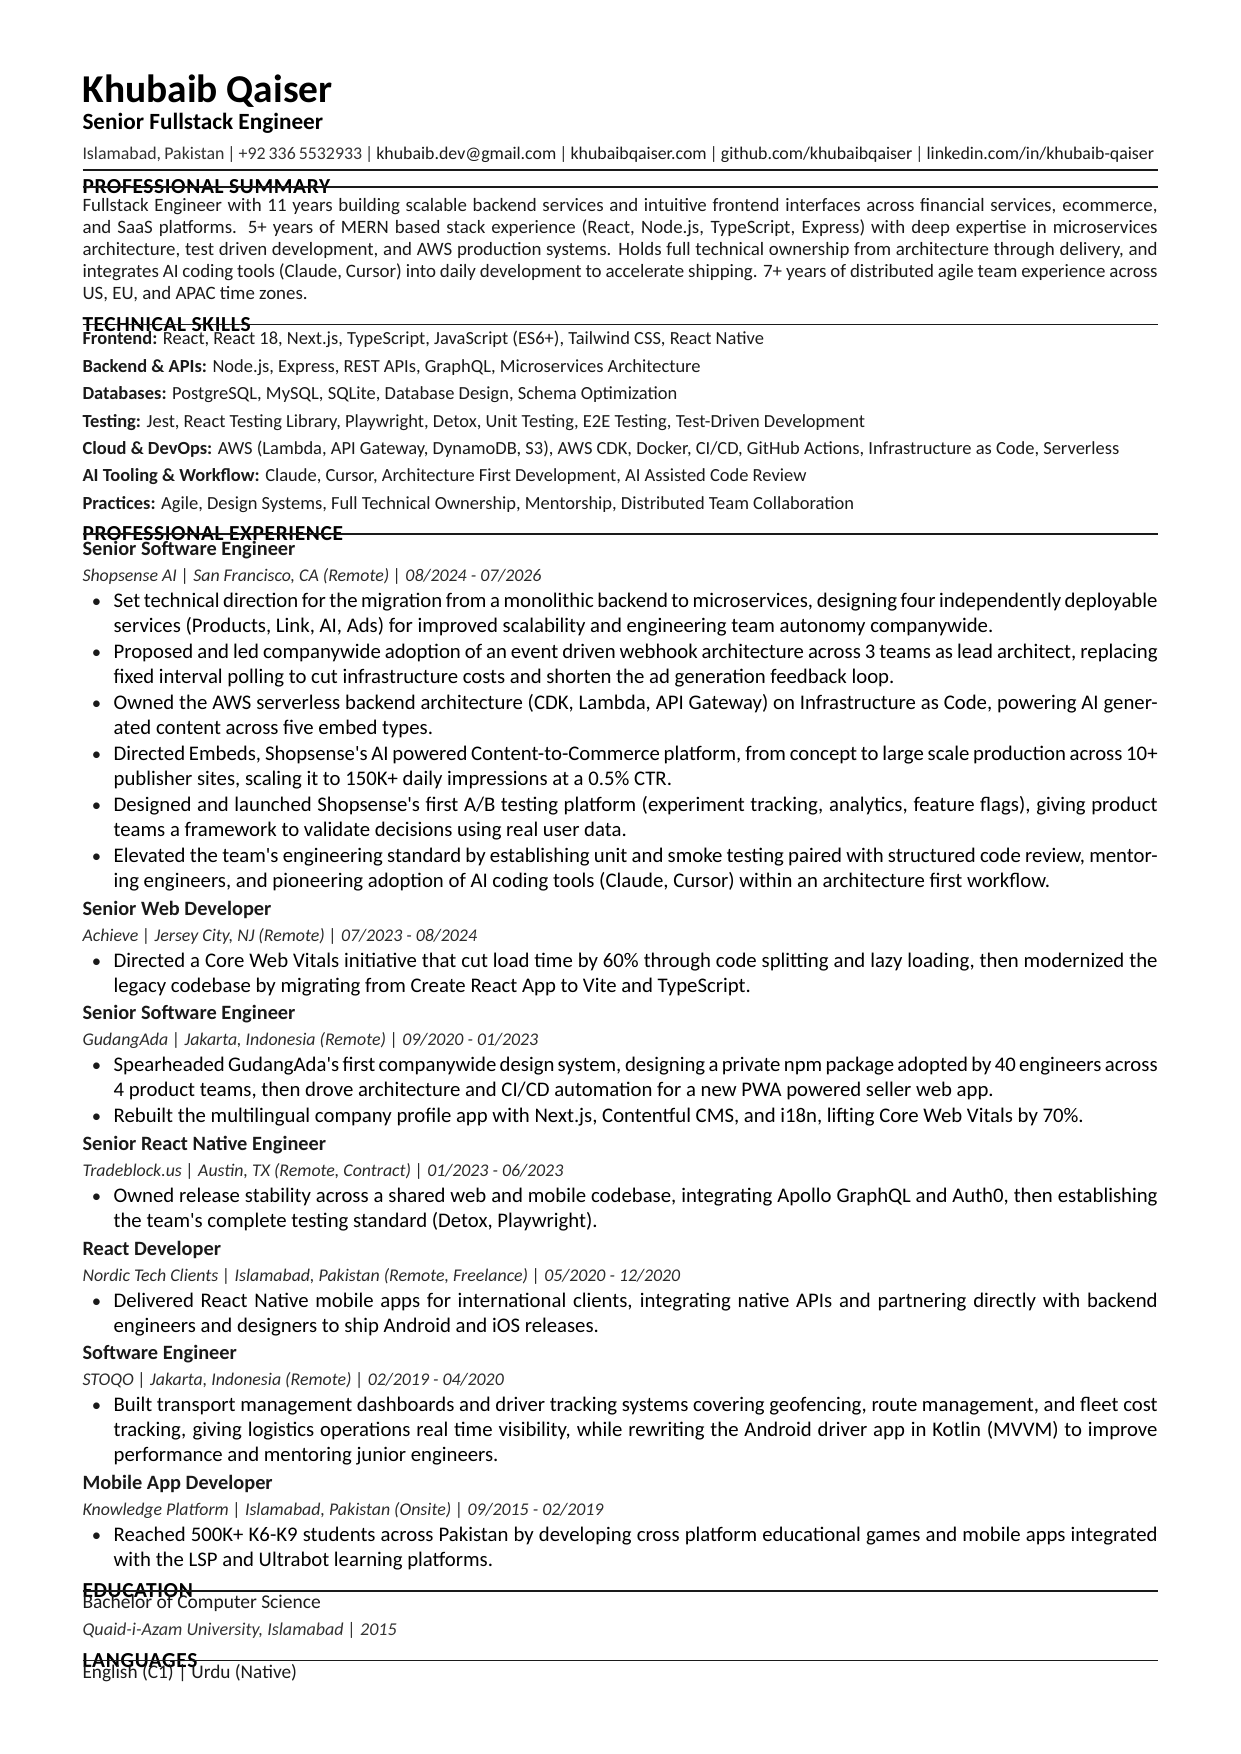
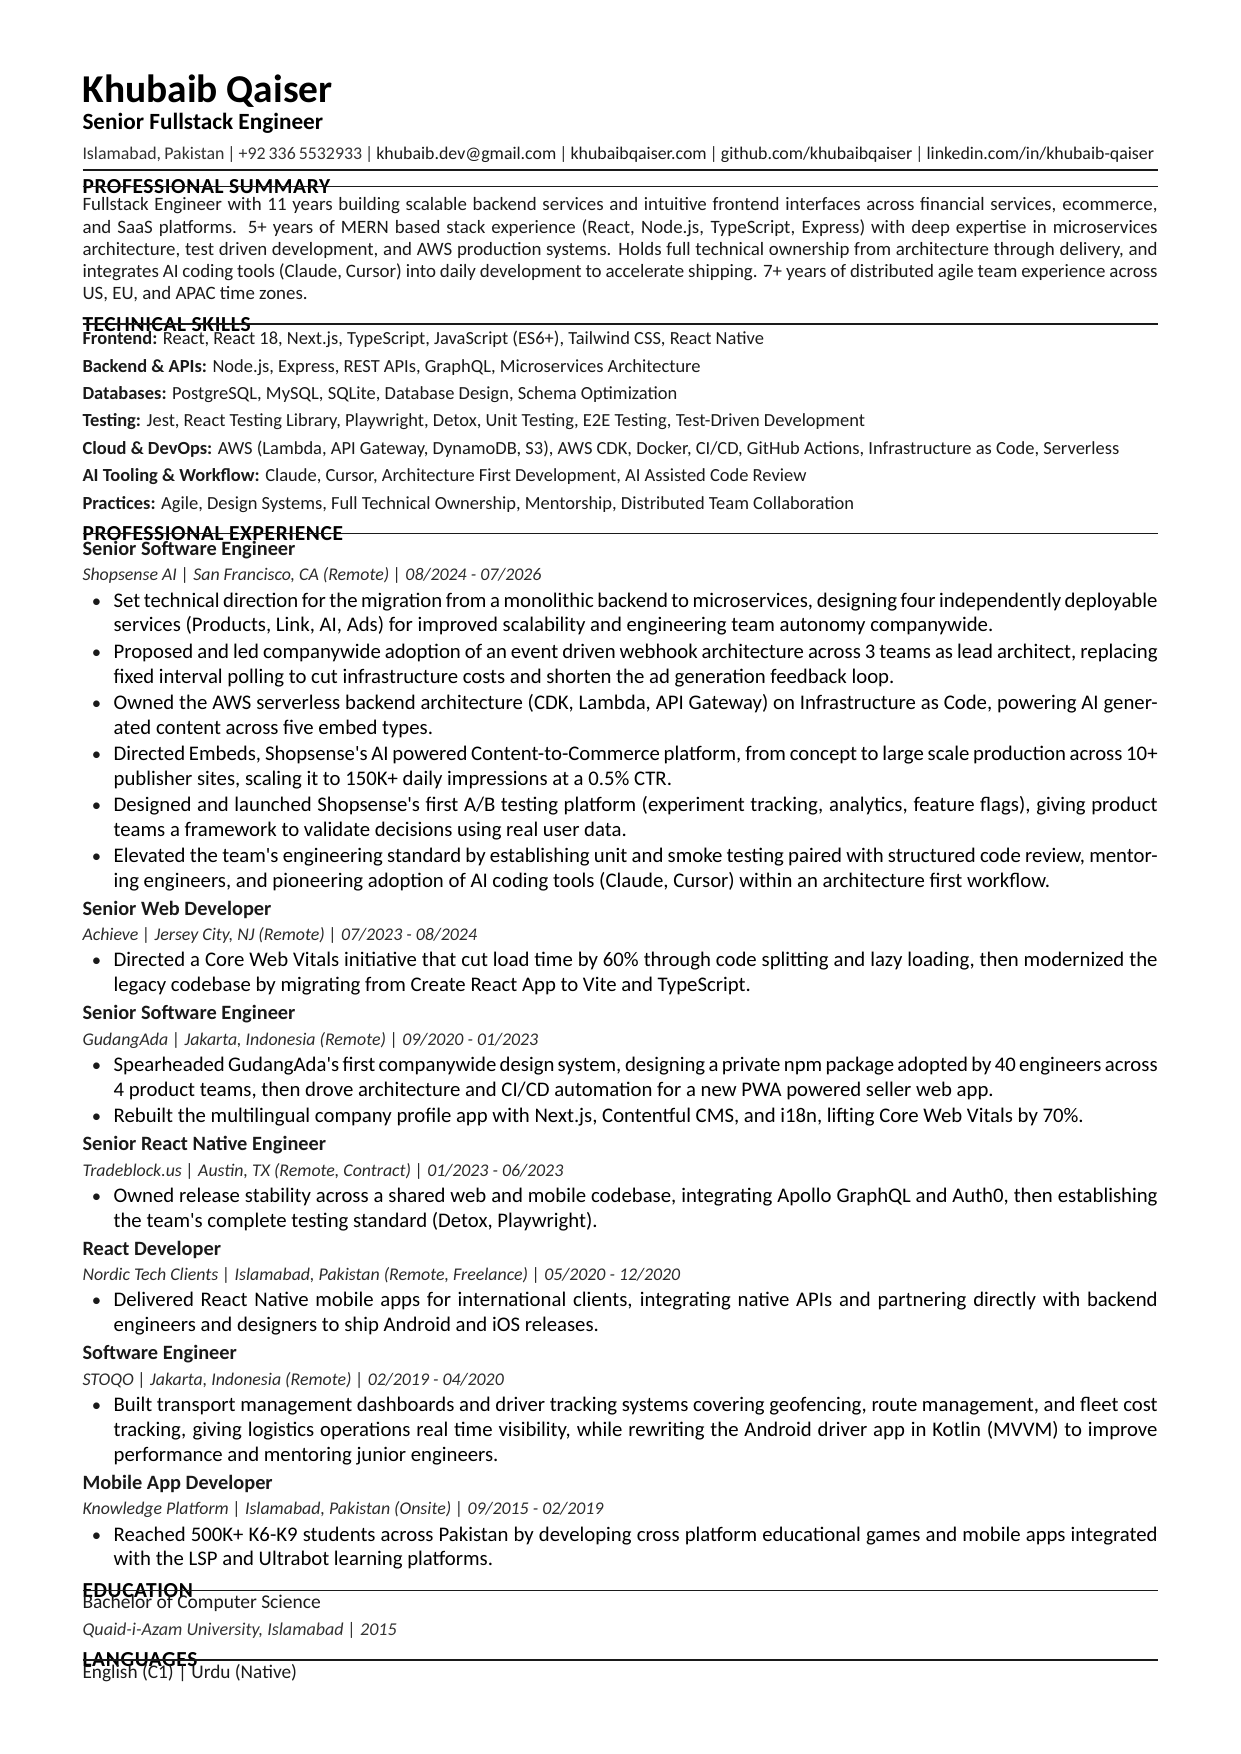
fix(resume-latex): tune section rule offset to -3.9pt for clearer separation

diff --git a/packages/resume-latex/templates/resume_template.tex b/packages/resume-latex/templates/resume_template.tex
@@ -90,11 +90,11 @@
 %      border-bottom 0.85pt solid rulecolor, padding-bottom ~2px,
 %      margin-top 10px (0 for first heading), margin-bottom 5px
 % TeX note: negative vspace after heading positions the rule under the line
-% box; -4pt overlaps glyphs on Carlito — use -3.85pt with 10.8pt leading.
+% box; -4pt overlaps glyphs on Carlito — use -3.9pt with 10.8pt leading.
 \newcommand{\sectionheading}[1]{%
     \par\vspace{3.2pt}
     {\headingfont\fontsize{10.3pt}{10.8pt}\selectfont\bfseries\MakeUppercase{#1}}\par
-    \vspace{-3.85pt}
+    \vspace{-3.9pt}
     {\color{rulecolor}\hrule height 0.85pt}
     \vspace{1.7pt}
 }
@@ -102,7 +102,7 @@
 % immediately after \resumehrule for the first section only:
 \newcommand{\sectionheadingfirst}[1]{%
     {\headingfont\fontsize{10.3pt}{10.8pt}\selectfont\bfseries\MakeUppercase{#1}}\par
-    \vspace{-3.85pt}
+    \vspace{-3.9pt}
     {\color{rulecolor}\hrule height 0.85pt}
     \vspace{5pt}
 }
